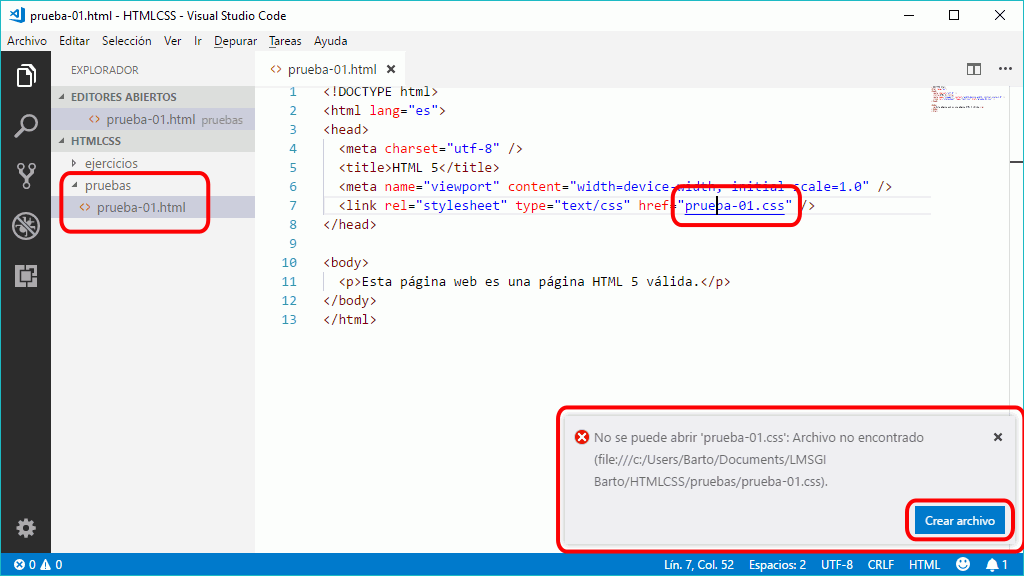
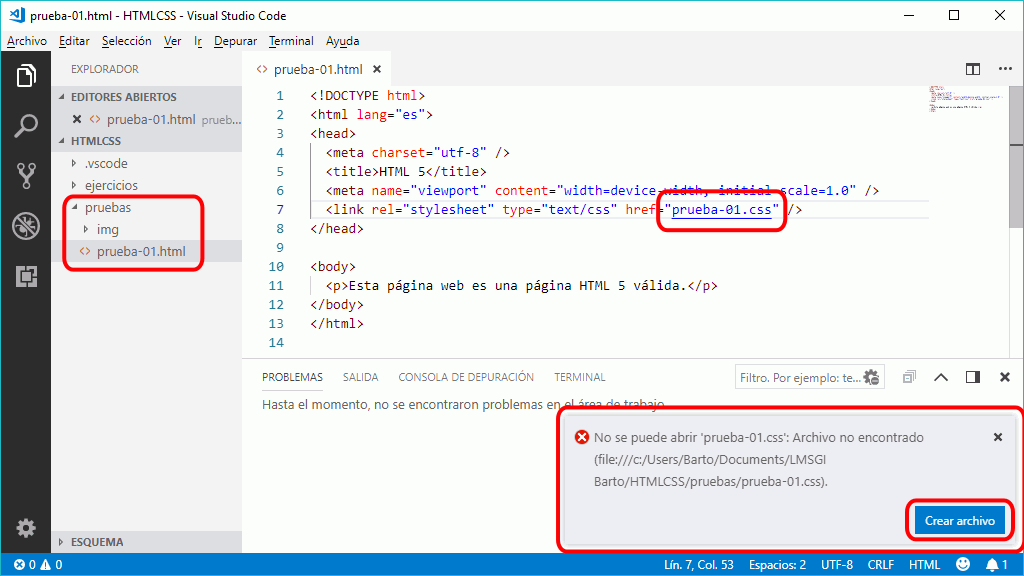
Actualizo VSC Uso

diff --git a/lecciones/vsc-uso.html b/lecciones/vsc-uso.html
@@ -58,7 +58,7 @@
       </li>
       <li>Al hacer clic en "Crear archivo", el archivo se crea automáticamente y se abre en una nueva pestaña:
         <p class="captura">
-          <img src="../img/vscode/vsc-uso-abrir-enlace-2.png" alt="Visual Studio Code. Abrir enlace" width="1024" height="300" />
+          <img src="../img/vscode/vsc-uso-abrir-enlace-2.png" alt="Visual Studio Code. Abrir enlace" width="1024" height="320" />
         </p>
       </li>
     </ul>
@@ -99,7 +99,7 @@
   </section>
 
   <footer>
-    <p class="ultmod">Última modificación de esta página: 20 de abril de 2018</p>
+    <p class="ultmod">Última modificación de esta página: 24 de septiembre de 2018</p>
 
     <p class="licencia">
       <a rel="license" href="https://creativecommons.org/licenses/by-sa/4.0/deed.es_ES"><img src="../varios/iconos/icono-cc-by-sa.svg" alt="Licencia Creative Commons" title="Licencia Creative Commons BY-SA" width="120" height="42" /></a><br />
